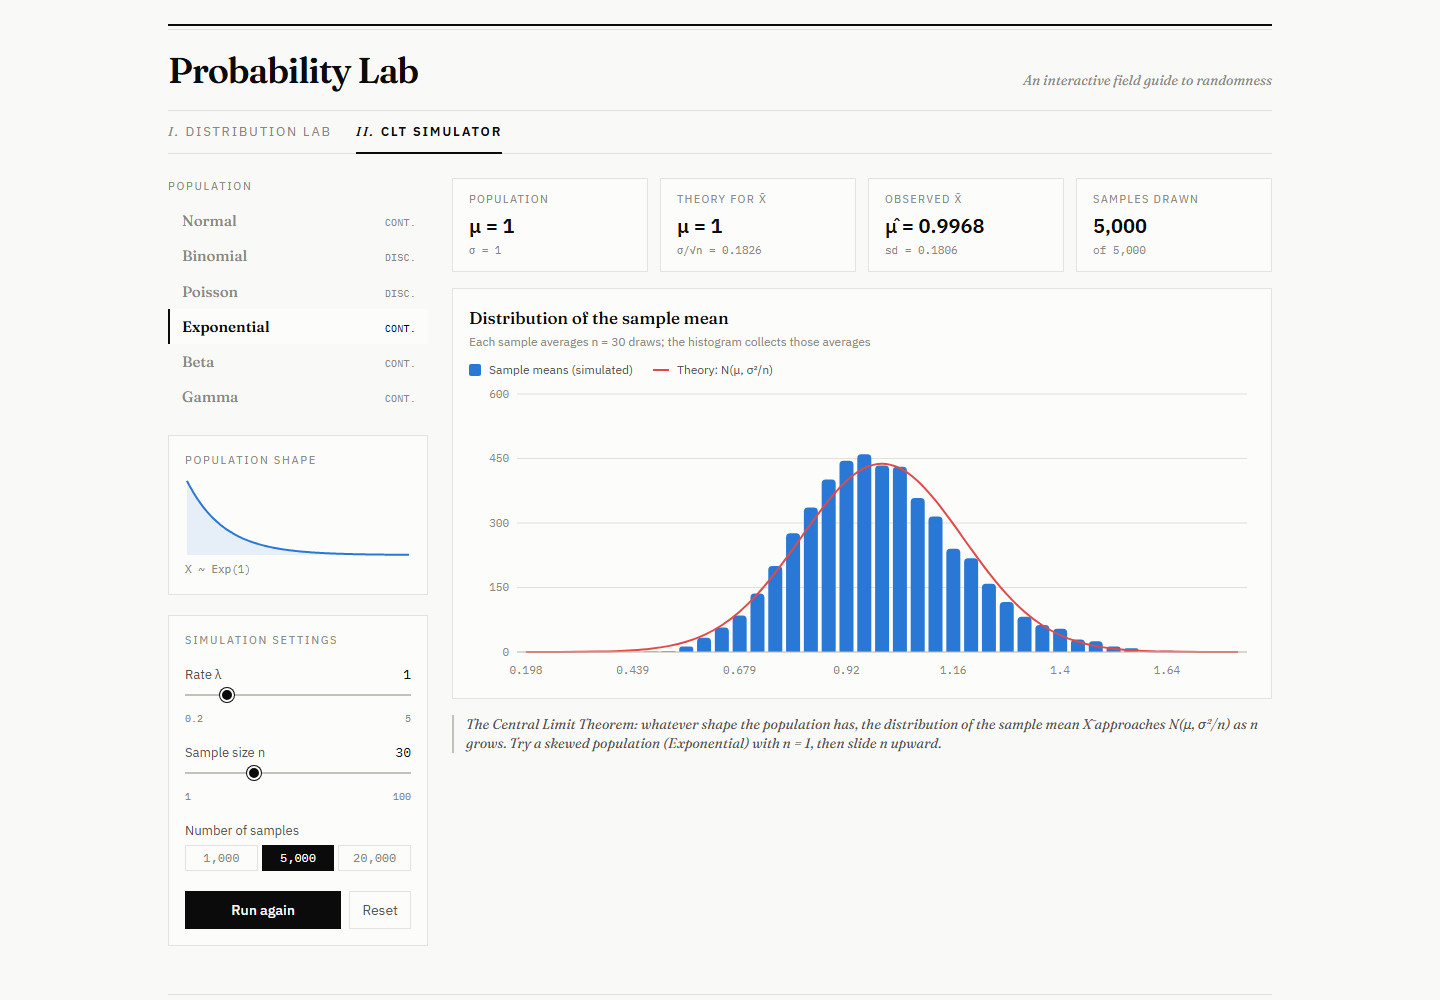
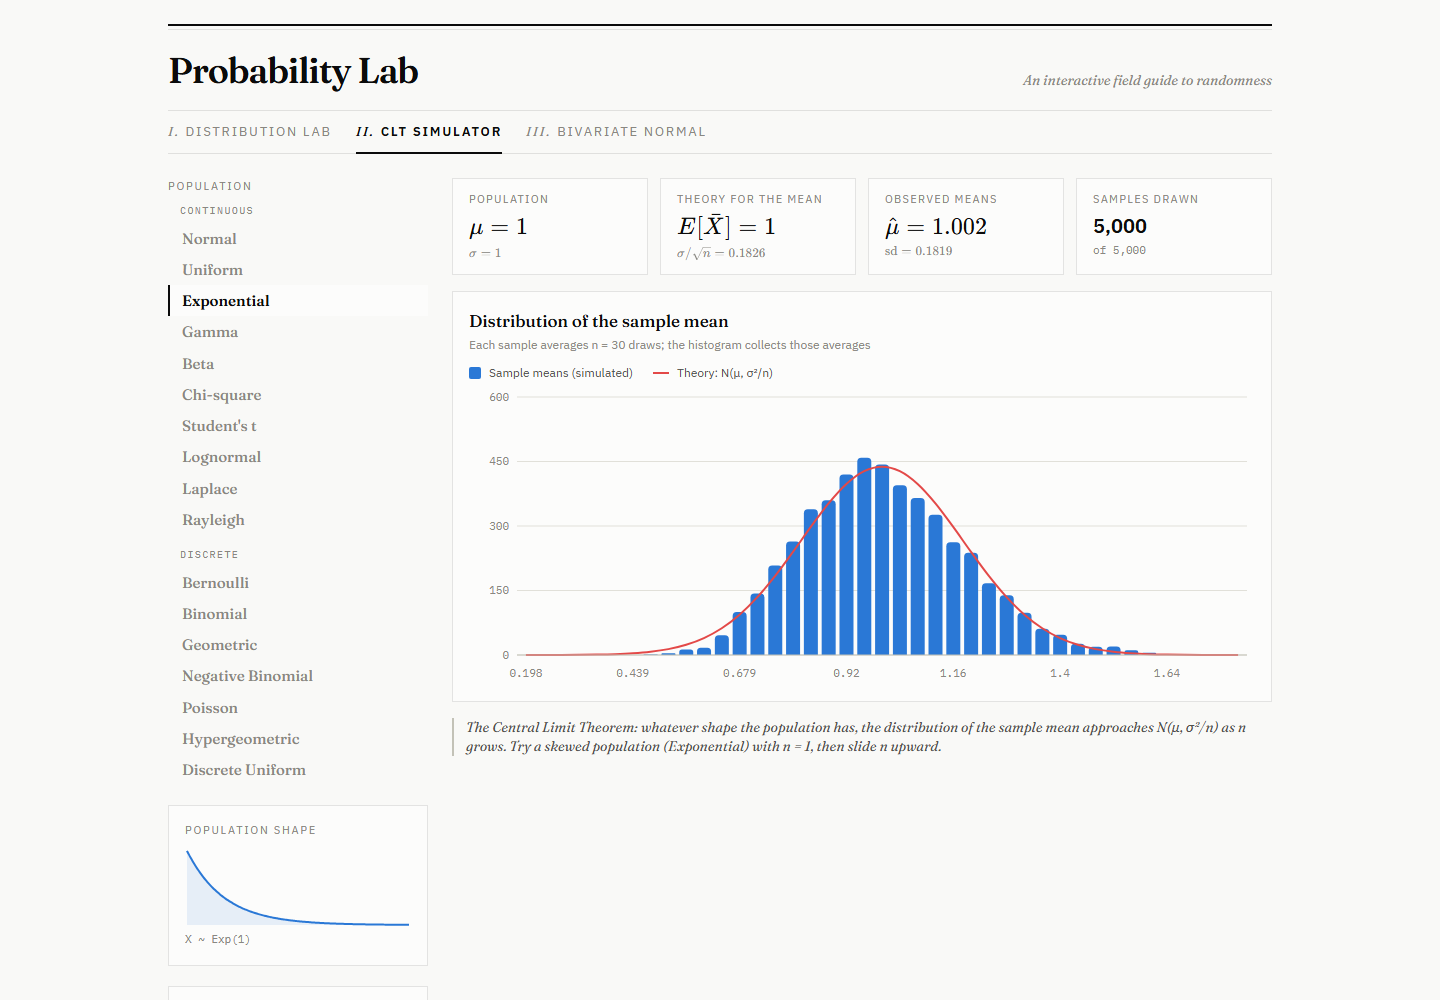
Fix mu-hat rendering: CLT stat tiles now use KaTeX, not combining chars
- The Unicode combining circumflex in the Observed tile rendered offset;
  all four CLT tiles now render their math (mu, E[X-bar], sigma/sqrt(n),
  mu-hat, sd) with KaTeX
- Removed the remaining combining-macron X-bar from the CLT caption text
- Distribution Lab hint now points at the MLE/MME panel location
- Regenerated docs/clt-simulator.png

diff --git a/src/components/CLTSimulator.jsx b/src/components/CLTSimulator.jsx
@@ -13,6 +13,7 @@ import ChartTooltip from './ChartTooltip.jsx'
 import DistPicker from './DistPicker.jsx'
 import ParamSlider from './ParamSlider.jsx'
 import StatTile from './StatTile.jsx'
+import TeX from './TeX.jsx'
 
 const N_BINS = 41
 const RUN_DURATION_MS = 4000 // the animation always completes in about this long
@@ -218,18 +219,26 @@ export default function CLTSimulator() {
         <div className="grid grid-cols-2 gap-3 sm:grid-cols-4">
           <StatTile
             label="Population"
-            value={`μ = ${fmtNum(setup.mu)}`}
-            caption={`σ = ${fmtNum(setup.sd)}`}
+            value={<TeX tex={`\\mu = ${fmtNum(setup.mu)}`} />}
+            caption={<TeX tex={`\\sigma = ${fmtNum(setup.sd)}`} />}
           />
           <StatTile
-            label="Theory for X̄"
-            value={`μ = ${fmtNum(setup.mu)}`}
-            caption={`σ/√n = ${fmtNum(setup.se)}`}
+            label="Theory for the mean"
+            value={<TeX tex={`E[\\bar X] = ${fmtNum(setup.mu)}`} />}
+            caption={<TeX tex={`\\sigma/\\sqrt{n} = ${fmtNum(setup.se)}`} />}
           />
           <StatTile
-            label="Observed X̄"
-            value={`μ̂ = ${fmtNum(empirical.mean)}`}
-            caption={`sd = ${fmtNum(empirical.sd)}`}
+            label="Observed means"
+            value={
+              Number.isFinite(empirical.mean)
+                ? <TeX tex={`\\hat\\mu = ${fmtNum(empirical.mean)}`} />
+                : '—'
+            }
+            caption={
+              Number.isFinite(empirical.sd)
+                ? <TeX tex={`\\mathrm{sd} = ${fmtNum(empirical.sd)}`} />
+                : ' '
+            }
           />
           <StatTile
             label="Samples drawn"
@@ -296,7 +305,7 @@ export default function CLTSimulator() {
 
         <p className="border-l-2 border-baseline pl-3 font-display text-[14px] italic leading-snug text-ink2">
           The Central Limit Theorem: whatever shape the population has, the
-          distribution of the sample mean X̄ approaches N(μ, σ²/n) as n grows.
+          distribution of the sample mean approaches N(μ, σ²/n) as n grows.
           Try a skewed population (Exponential) with n = 1, then slide n upward.
         </p>
       </div>

diff --git a/src/components/DistributionLab.jsx b/src/components/DistributionLab.jsx
@@ -74,7 +74,7 @@ export default function DistributionLab() {
         <div className="flex flex-wrap items-baseline justify-between gap-2">
           <span className="font-mono text-sm text-ink">{dist.notation(params)}</span>
           <span className="text-xs text-muted">
-            drag the sliders — everything updates live
+            drag the sliders — MLE &amp; MME formulas are in the panel below the charts
           </span>
         </div>
 
